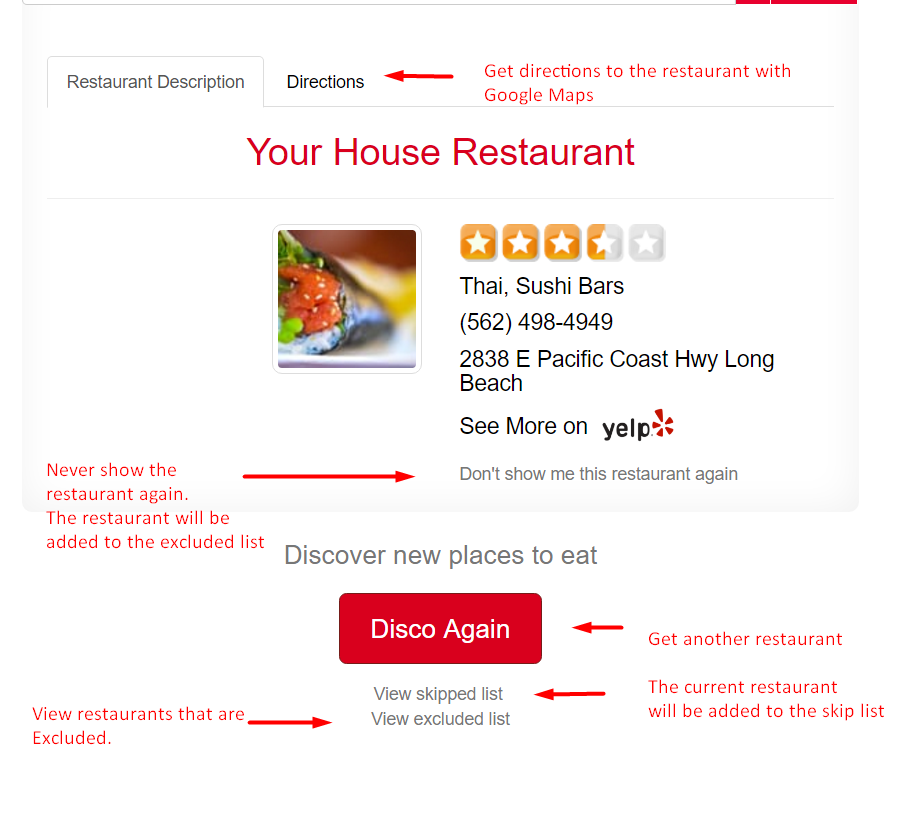
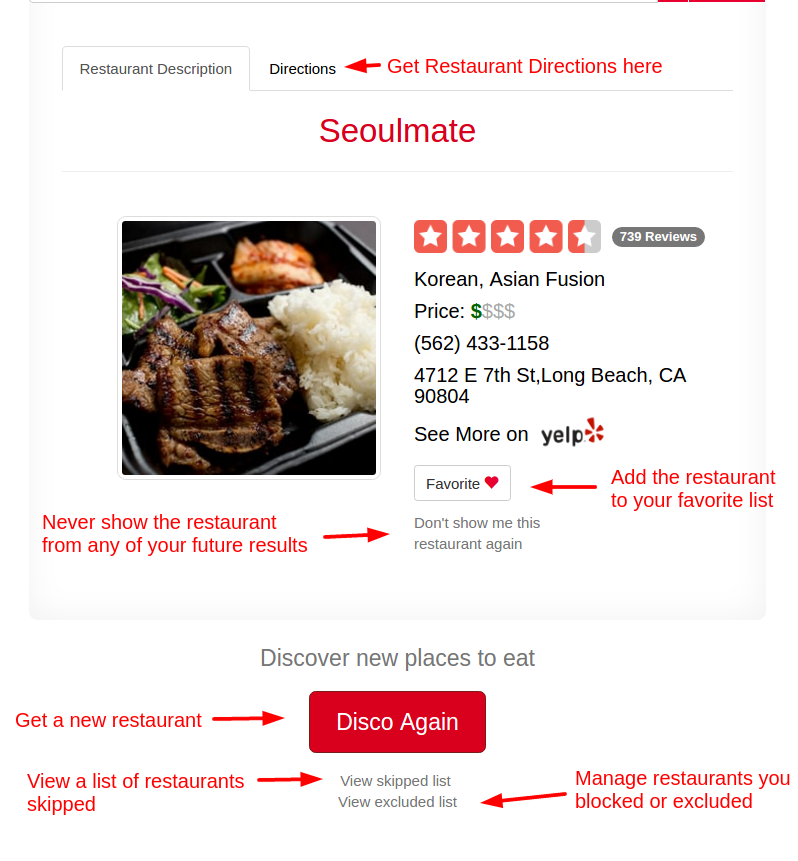
updated foodisco 2.0 docs and files

diff --git a/index.html b/index.html
@@ -95,7 +95,7 @@
                       <div class="navbar-login">
                           <div class="row">
                               <div class="col-lg-4">
-                                  <img id="profile_pic" src="img/profile_thumb.png"/>
+                                  <img id="profile_pic" width="100" height="100" src="img/profile_thumb.png"/>
                               </div>
                               <div class="col-lg-8">
                                   <p class="text-left"><strong><span id="profile_name" >Haram Be</span></strong></p>
@@ -138,12 +138,38 @@
                 <button type="button" id="filter" class="btn btn-secondary dropdown-toggle" data-toggle="dropdown" aria-haspopup="true" aria-expanded="false">
                   Filter&nbsp;<span class="caret"></span>
                 </button>
-                <div class="dropdown-menu">
-                  <li><a class="dropdown-item" href="#">Action</a></li>
-                  <li><a class="dropdown-item" href="#">Another action</a></li>
-                  <li><a class="dropdown-item" href="#">Something else here</a></li>
-                  <li><div role="separator" class="dropdown-divider"></div></li>
-                  <li><a class="dropdown-item" href="#">Separated link</a></li>
+                <div id="filter-dropdown" class="dropdown-menu pull-right">
+                  <form>
+                    <div class="form-group row">
+                      <label for="filter-radius" class="col-sm-2 col-form-label col-form-label-sm">Radius</label>
+                      <div class="col-sm-10">
+                        <input class="form-control" type="number" value="42" id="filter-radius">
+                      </div>
+                    </div>
+                    <div id="filter-rating">
+                      <label for="filter-radius" class="col-sm-2 col-form-label col-form-label-sm">Price</label>
+                      <div class="form-check form-check-inline">
+                        <label class="form-check-label">
+                          <input class="form-check-input" type="checkbox" id="inlineCheckbox1" value="option1"> $
+                        </label>
+                      </div>
+                      <div class="form-check form-check-inline">
+                        <label class="form-check-label">
+                          <input class="form-check-input" type="checkbox" id="inlineCheckbox2" value="option2"> $$
+                        </label>
+                      </div>
+                      <div class="form-check form-check-inline">
+                        <label class="form-check-label">
+                          <input class="form-check-input" type="checkbox" id="inlineCheckbox3" value="option3"> $$$
+                        </label>
+                      </div>
+                      <div class="form-check form-check-inline">
+                        <label class="form-check-label">
+                          <input class="form-check-input" type="checkbox" id="inlineCheckbox3" value="option3"> $$$$
+                        </label>
+                      </div>
+                    </div>
+                  </form>
                 </div>
               </span>
             </div>
@@ -164,7 +190,7 @@
               <div class="row">
                   <div id="img-col" class="col-md-6">
                       <a id="img-link"  target="_blank" href="https://www.yelp.com/biz/beachwood-brewing-and-bbq-long-beach?adjust_creative=um2sdJbDRG4wyZxruzTmhQ&utm_campaign=yelp_api&utm_medium=api_v2_search&utm_source=um2sdJbDRG4wyZxruzTmhQ">
-                        <img id="image" class="img-thumbnail" height=240 width=240 src=""/></a>
+                        <img id="image" class="img-thumbnail" height=240 width=240 src="img/default-rest-pic.jpg"/></a>
                   </div>
                   <div id="restaurant-desc" class="col-md-6">
                       <img id="rating" src="https://s3-media2.fl.yelpcdn.com/assets/2/www/img/ccf2b76faa2c/ico/stars/v1/stars_large_4.png"/><span id="review_count" class="badge">0 reviews</span>

diff --git a/devguide.html b/devguide.html
@@ -269,18 +269,21 @@
 		- Easily type in address using autocomplete 
 		- Discover new resutrants in your area
 		- Easy to use directions already generated when searching resturants
+                - Easily login to your accounts (Facebook/Google)
+                - Easily create account with email and password
+                - Easily save your favorite resturants to your profile
 		
 
 		$Components and Technologies
 		--------------------
-                - <a href=https://www.yelp.com/developers/documentation/v2/search_api>Yelp Search Api 2.0</a>
-                - <a href=https://www.yelp.com/developers/documentation/v2/business>Yelp Business Api</a> 
+                - <a href=https://www.yelp.com/developers/documentation/v3/business_search>Yelp Fusion Api v3</a>
                 - <a href=https://developers.google.com/maps/documentation/javascript>Google Maps Api</a> 
                 - <a href=https://developers.google.com/maps/documentation/geolocation/intro>Google Maps Geolocation API</a> 
                 - <a href=https://developers.google.com/maps/documentation/geocoding/intro>Google Maps Geocoding API</a>
                 - <a href=https://developers.google.com/maps/documentation/javascript/examples/places-autocomplete>Google Maps Place Autocomplete API</a>
                 - <a href=http://getbootstrap.com>Bootstrap v3</a>
                 - <a href=http://jquery.com>jQuery v3</a>
+                - <a href=https://firebase.google.com>Firebase</a>
                 
                 
                 $Installation
@@ -289,6 +292,9 @@
                 - Request a Yelp API key: <a href=https://www.yelp.com/developers/v3/manage_app>https://www.yelp.com/developers/v3/manage_app</a>
                 - Get a Google Geolocation API key: <a href=https://developers.google.com/maps/documentation/geolocation/get-api-key>https://developers.google.com/maps/documentation/geolocation/get-api-key</a>
                 - Get a Google Geocoding API key: <a href=https://developers.google.com/maps/documentation/geocoding/get-api-key>https://developers.google.com/maps/documentation/geocoding/get-api-key</a>
+                - Sign up for Firebase API using your google account and create a simple database: <a href=https://firebase.google.com>https://firebase.google.com/</a>
+                    - Once logged in, 
+                    - 
                 
 
 		$Contribute
@@ -334,8 +340,28 @@
                 - Added filter button
                 - Added About, User Manual, and Developers Guide to website
 		
-
-
+                v2.00
+                - Converted webapp Yelp API v2 to Yelp Fusion API v3
+                
+                v2.01
+                - Formatted navagation bar to work better on mobile and on web
+                - Added login button with a dropdown menu
+                - Added favorites button to favorite a resturant
+                - Added sign in and sign up buttons
+                
+                v2.02
+                - Added login functionality. User can login to Facebook/Google or a specified email and password
+                    - The login functionality uses Facebook and Google login API
+                - Implemented user login with a specified email and password
+                    - When signing up for first time, user will get an email saying theyev been succesfully registered
+                - When user signs in, their basic information is stored on firebase database using Firebase API
+                
+                v2.03
+                - Cleaned up user dropdown menu when user is logged in
+                    - shows user profile picture, email, and name
+                - Implemented favorites button
+                    - When user presses favorite button, the resturant is added to the database under their name
+                
 					</code>
 				
 				</pre>

diff --git a/userguide.html b/userguide.html
@@ -257,7 +257,7 @@ hr {
             <h2 class="blog-post-title">About</h2>
             <p class="blog-post-meta">What is foodisco?</p>
 
-            <p>Foodisco is the best way to find new restaurants near you. Gone are the days of indecisive friend groups taking hours to decide where to eat. <br>
+            <p>Foodisco is the best way to find new restaurants near you. Gone are the days of indecisive friend groups taking hours to decide where to eat. <br><br>
 							Use Foodisco to find some of the best restaurants in your area.</p>
             
           </div><!-- /.blog-post -->
@@ -270,7 +270,10 @@ hr {
 							<li>Automatically fills in your location, no need to type it in.</li>
 							<li>Finds the best restaurants near you.</li>
 							<li>Easily get directions to a restaurant.</li>
+							<li>Save Favorite Restaurants.</li>
+							<li>See restaurants you previously skipped with the skipped list view</li>
 							<li>Dislike a restaurant? Easily prevent that listing from showing up again.</li>
+							<li>Allows you to create an account or log in with an existing Google or Facebook account</li>
 						</ul>
           </div><!-- /.blog-post -->
 
@@ -281,7 +284,8 @@ hr {
 						<p>To enter a location, either:</p>
 						<ul>
 							<li>Type your location in the search box</li>
-							<li>Click the icon to the right of the search box</li>
+							<li>Click the gps icon to the right of the search box</li>
+							<li>Press enter to automatically grab your location using gps</li>
 						</ul>
 						<img src="http://foodisco.marktan.us/img/screenshots/enter_location.png" width="600" style="margin-bottom:80px;">
 						
@@ -290,6 +294,26 @@ hr {
 						
 						<h3>Step 3 | <span class="text-muted">Get a Result</span></h3>
 						<img src="http://foodisco.marktan.us/img/screenshots/view_result.png" width="600" style="margin-bottom:20px;">
+						
+						<h3>Step 4 | <span class="text-muted">View Directions</span></h3>
+						<img src="http://foodisco.marktan.us/img/screenshots/directions.png" width="600" style="margin-bottom:20px;">
+
+          </div><!-- /.blog-post -->
+					<div class="blog-post" id="user_account">
+						<h2 class="blog-post-title" style="margin-bottom:40px;">Log in Using an Account</h2>
+
+						<h3>Option 1 | <span class="text-muted">Log in using a Facebook or Google Account</span></h3>
+						<p>No need to sign up, simply log in using an existing account.</p>
+						
+						<img src="http://foodisco.marktan.us/img/screenshots/login.png" width="200" style="margin-bottom:80px;">
+
+            <h3>Option 2 | <span class="text-muted">Sign up for an account</span></h3>
+            <p>Fill out your email and password on the sign-up form and receive an email confirming your registration.</p><br><br>
+
+            <h3>User Panel | <span class="text-muted">View Stats</span></h3>
+            <p>Be able to lookup your favorite and excluded restaurants. A user statistics page option will also be available in the future.</p>
+            
+            <img src="http://foodisco.marktan.us/img/screenshots/loggedin.png" width="200" style="margin-bottom:80px;">
 
           </div><!-- /.blog-post -->
 
@@ -302,7 +326,8 @@ hr {
 							<hr>
               <li><h3><a href="#features">Features</a></h3></li>
 							<hr>
-              <li><h3><a href="#getstarted">Get Started</a></h3></li>
+              <li><h3><a href="#getstarted">Get Started</a></h3></li><hr>
+							<li><h3><a href="#user_account">User Account</a></h3></li>
             </ol>
           </div>
         </div><!-- /.blog-sidebar -->

diff --git a/js/foodisco.js b/js/foodisco.js
@@ -48,6 +48,9 @@ $('document').ready(function() {
 			updateRestaurant($jsonobject);
 		}
         $('#description-tab').tab('show');
+        
+        $("#favorite").removeClass("clickedFav");
+        $("#heart").removeClass("clickedHeart");
     });
 	
     // Enter key pressed on the location bar
@@ -80,7 +83,7 @@ $('document').ready(function() {
 		$skippedContent = "";
 		for(var i=0; i<$skippedList.length; i++){
 			$skipped_image = $skippedList[i].image_url.replace(new RegExp("o.jpg$"), "ms.jpg");	// changes small image to large
-		  console.log("FUCKIN URL SMALL: " + $image);
+		  //console.log("FUCKIN URL SMALL: " + $image);
 			$skippedContent+= "<a href='" + i + "'><h3>" + $skippedList[i].name + "</h3></a>";
 			$skippedContent+= "<img class='img-thumbnail' src='" + $skipped_image + "'>";
 			$skippedContent+= "<hr>"
@@ -224,8 +227,8 @@ function updateRestaurant(jsonobj){
           $("#address").text($addressObject);
           $("#phone").text($phone);
           $("#category").text($categories_content);
-		  $("#p$posrice").html($price);
-		  $("#review_count").text($review_count);
+				  $("#price").html($price);
+				  $("#review_count").text($review_count);
           
           
           //Collapses The Output Div
@@ -247,12 +250,12 @@ function updateRestaurant(jsonobj){
 function simpleUpdate(restaurantObj){
 	$RESTAURANT_OBJ = restaurantObj;
     $image = $RESTAURANT_OBJ.image_url.replace(new RegExp("o.jpg$"), "ls.jpg");	// changes small image to large
-		console.log("FUCKIN URL: " + $image);
+    //console.log("FUCKIN URL: " + $image);
     $name = $RESTAURANT_OBJ.name;
     $phone = $RESTAURANT_OBJ.display_phone;
     $addressObject = $RESTAURANT_OBJ.location.display_address;
     $rating = "img/rating/" + $RESTAURANT_OBJ.rating + ".png";
-		$review_count = $RESTAURANT_OBJ.review_count + " Reviews";
+    $review_count = $RESTAURANT_OBJ.review_count + " Reviews";
     $categories = $RESTAURANT_OBJ.categories;
 	
 	  $price = "Price: <span id='price_green'>" + $RESTAURANT_OBJ.price +"</span><span id=price_gray>";

diff --git a/css/foodisco.css b/css/foodisco.css
@@ -260,6 +260,21 @@ button#gps, button#filter{
     color: #fff;
 }
 
+/*css for filter*/
+div#filter-dropdown {
+    min-width: 400px;
+    max-width: 670px;
+    padding: 20px;
+    font-size: 8pt;
+    font-weight: normal;
+}
+
+.form-check.form-check-inline {
+    display: inline;
+    padding-left: 20px;
+}
+
+
 /* Responsive: Portrait tablets and up */
 @media screen and (min-width: 768px) {
   /* Remove the padding we set earlier */
